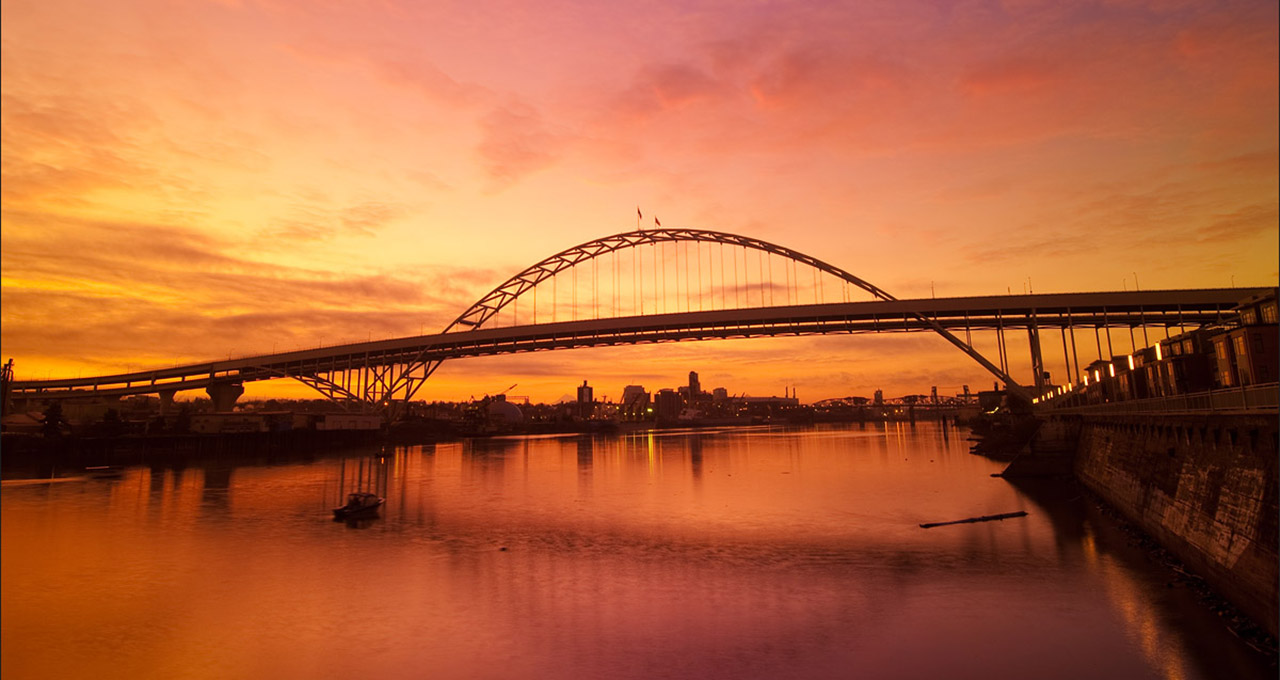
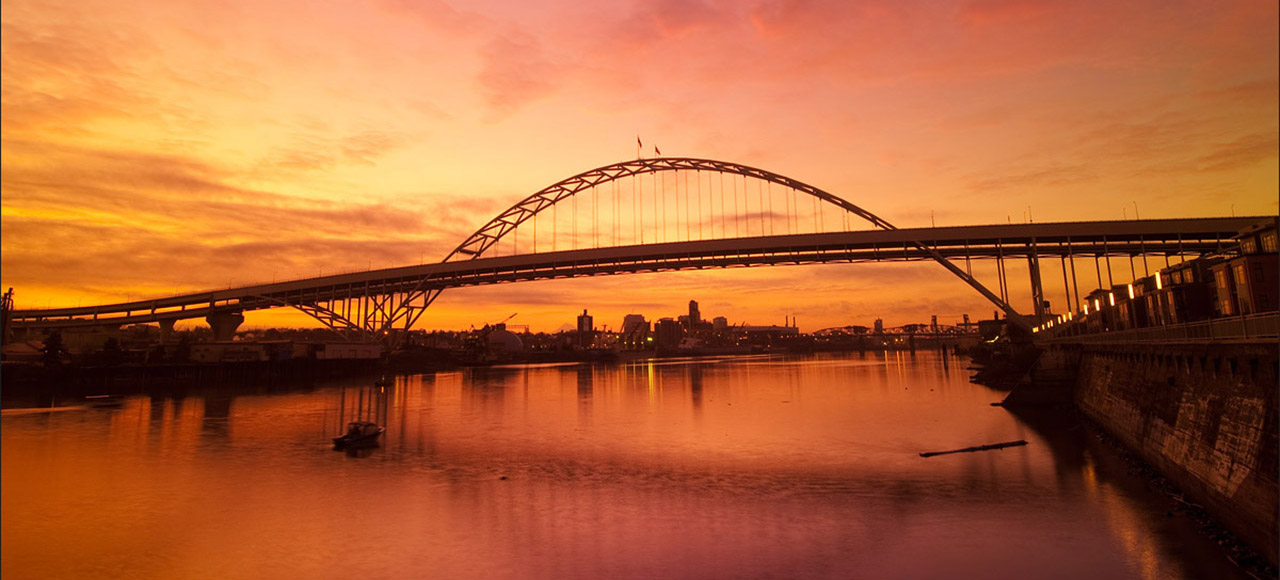
Refs #14822:  Swapped in new images for home page gallery carousel.

diff --git a/public/profiles/ombudemo_profile/initial-content/homepage.php b/public/profiles/ombudemo_profile/initial-content/homepage.php
@@ -17,11 +17,14 @@ $bean->delta = 'home-gallery';
 $bean->bean_style = 'carousel';
 $bean->title = '';
 $bean->save();
-ombugallery_create_slide($bean, $path . 'images/hero-carousel-cropped/01-st-johns.jpg', 'Connecting people since 1908.');
-ombugallery_create_slide($bean, $path . 'images/hero-carousel-cropped/02-tillikum.jpg', "We’ve got a bridge to sell you.  Seriously.");
-ombugallery_create_slide($bean, $path . 'images/hero-carousel-cropped/03-fremont.jpg', 'You shall pass.');
-ombugallery_create_slide($bean, $path . 'images/hero-carousel-cropped/04-marquam.jpg', 'Safely traveled by thousands every day.');
-ombugallery_create_slide($bean, $path . 'images/hero-carousel-cropped/05-st-johns.jpg', "You keep Portland weird.  We'll keep it beautiful.");
+ombugallery_create_slide($bean, $path . 'images/hero-carousel/01-st-johns.jpg', 'Connecting people since 1908.');
+ombugallery_create_slide($bean, $path . 'images/hero-carousel/08-nightscape.jpg', 'We’ve added color to the city.');
+ombugallery_create_slide($bean, $path . 'images/hero-carousel/07-tilt-shift.jpg', 'Functional, yet playful.');
+ombugallery_create_slide($bean, $path . 'images/hero-carousel/06-hawthorne.jpg', 'You keep Portland weird.  We’ll keep it beautiful.');
+ombugallery_create_slide($bean, $path . 'images/hero-carousel/14-fremont-with-st-helens.jpg', 'Act now and we’ll throw in a volcano.');
+ombugallery_create_slide($bean, $path . 'images/hero-carousel/16-tillikum-at-night.jpg', 'Light cycles not included.');
+ombugallery_create_slide($bean, $path . 'images/hero-carousel/11-burnside-open.jpg', 'You shall not pass.');
+ombugallery_create_slide($bean, $path . 'images/hero-carousel/09-night-long-exposure.jpg', 'Safely traveled by thousands every day.');
 
 $wrapper->field_sections[] = array(
   'value' => 'Hero',
